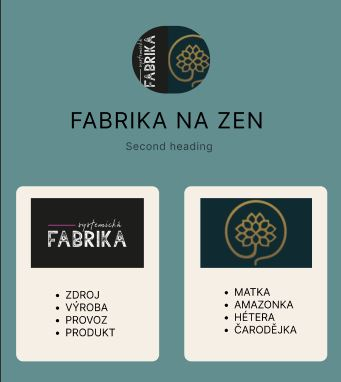
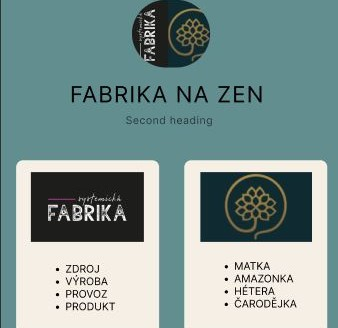
Changed the cards on index page, removed grid

diff --git a/index.html b/index.html
@@ -37,164 +37,72 @@
       <a class="nav-link" href="education.html">Education</a>
       <a class="nav-link" href="index.html">Home</a>
     </div>
-
-    <div class="row mt-5">
-      <div class="col-ml-6">
-        <div class="row">
-          <div class="col-md-12"><br /></div>
+    <div class="cards">
+      <div class="card md" style="width: 18rem">
+        <img
+          class="card-img-top"
+          src="visuals/sweden-project.JPG"
+          alt="Card image cap"
+        />
+        <div class="card-body">
+          <h5 class="card-title">Sweden project</h5>
+          <p class="card-text">
+            Some quick example text to build on the card title and make up the
+            bulk of the card's content.
+          </p>
+          <a href="#" class="btn btn-primary">Go somewhere</a>
         </div>
-        <div class="row">
-          <div class="col-md-6">
-            <div class="card mb-3">
-              <div class="row no-gutters">
-                <div class="col-md-6">
-                  <a
-                    href="https://celebrated-gnome-116124.netlify.app/"
-                    target="_blank"
-                  >
-                    <img
-                      src="visuals/resume.JPG"
-                      class="card-img mt-4 img-fluid"
-                      alt="..."
-                  /></a>
-                </div>
-                <div class="col-md-6">
-                  <div class="card-body">
-                    <h5 class="card-title">
-                      <a
-                        href="https://celebrated-gnome-116124.netlify.app/"
-                        target="_blank"
-                        >Resume</a
-                      >
-                    </h5>
+      </div>
 
-                    <p class="card-text">
-                      <small class="text-muted"
-                        >A resume as a PDF is boring. So I made mine as a
-                        landing page instead. The source code is open and the
-                        design is made by me.</small
-                      >
-                    </p>
-                  </div>
-                </div>
-              </div>
-            </div>
-          </div>
-
-          <div class="col-md-6">
-            <div class="card mb-3">
-              <div class="row no-gutters">
-                <div class="col-md-6">
-                  <div class="card-body">
-                    <h5 class="card-title">
-                      <a
-                        href="https://zesty-rugelach-208791.netlify.app/"
-                        target="_blank"
-                        >Weather App</a
-                      >
-                    </h5>
-
-                    <p class="card-text">
-                      <small class="text-muted"
-                        >My first real coding project was to build a weather
-                        app. Using my newly coding skills using HTML, CSS and
-                        Javascript.</small
-                      >
-                    </p>
-                  </div>
-                </div>
-                <div class="col-md-6">
-                  <a
-                    href="https://zesty-rugelach-208791.netlify.app/"
-                    target="_blank"
-                    ><img
-                      src="visuals/weather.jpg"
-                      class="card-img img-fluid"
-                      alt="..."
-                  /></a>
-                </div>
-              </div>
-            </div>
-          </div>
-        </div>
-
-        <div class="row">
-          <div class="col-md-6">
-            <div class="card mb-3">
-              <div class="row no-gutters">
-                <div class="col-md-6">
-                  <a
-                    href="https://celebrated-gnome-116124.netlify.app/"
-                    target="_blank"
-                  >
-                    <img
-                      src="visuals/zen-project.JPG"
-                      class="card-img img-fluid"
-                      alt="..."
-                  /></a>
-                </div>
-                <div class="col-md-6">
-                  <div class="card-body">
-                    <h5 class="card-title">
-                      <a
-                        href="https://celebrated-gnome-116124.netlify.app/"
-                        target="_blank"
-                        >Zen-Fabrika</a
-                      >
-                    </h5>
-
-                    <p class="card-text">
-                      <small class="text-muted"
-                        >This is my first project for a client who wanted a
-                        landing page for their two businesses.</small
-                      >
-                    </p>
-                  </div>
-                </div>
-              </div>
-            </div>
-          </div>
-          <div class="col-md-6">
-            <div class="card mb-3">
-              <div class="row no-gutters">
-                <div class="col-md-6">
-                  <div class="card-body">
-                    <h5 class="card-title">
-                      <a
-                        href="https://playful-monstera-ced22b.netlify.app/"
-                        target="_blank"
-                        >Sweden</a
-                      >
-                    </h5>
-
-                    <p class="card-text">
-                      <small class="text-muted"
-                        >A project from my coding workshops where we were
-                        suppost to create a website after getting the design in
-                        Figma.</small
-                      >
-                    </p>
-                  </div>
-                </div>
-                <div class="col-md-6">
-                  <a
-                    href="https://playful-monstera-ced22b.netlify.app/"
-                    target="_blank"
-                  >
-                    <img
-                      src="visuals/sweden-project.JPG"
-                      class="card-img img-fluid"
-                      alt="..."
-                      width="300px"
-                  /></a>
-                </div>
-              </div>
-            </div>
-          </div>
+      <div class="card md" style="width: 18rem">
+        <img
+          class="card-img-top"
+          src="visuals/weather.jpg"
+          alt="Card image cap"
+        />
+        <div class="card-body">
+          <h5 class="card-title">Weather App</h5>
+          <p class="card-text">
+            Some quick example text to build on the card title and make up the
+            bulk of the card's content.
+          </p>
+          <a href="#" class="btn btn-primary">Go somewhere</a>
         </div>
       </div>
     </div>
+    <div class="cards">
+      <div class="card" style="width: 18rem">
+        <img
+          class="card-img-top"
+          src="visuals/resume.JPG"
+          alt="Card image cap"
+        />
+        <div class="card-body">
+          <h5 class="card-title">Resume</h5>
+          <p class="card-text">
+            Some quick example text to build on the card title and make up the
+            bulk of the card's content.
+          </p>
+          <a href="#" class="btn btn-primary">Go somewhere</a>
+        </div>
+      </div>
 
+      <div class="card" style="width: 18rem">
+        <img
+          class="card-img-top"
+          src="visuals/zen-project.JPG"
+          alt="Card image cap"
+        />
+        <div class="card-body">
+          <h5 class="card-title">Weather App</h5>
+          <p class="card-text">
+            Some quick example text to build on the card title and make up the
+            bulk of the card's content.
+          </p>
+          <a href="#" class="btn btn-primary">Go somewhere</a>
+        </div>
+      </div>
+    </div>
     <script
       src="https://cdn.jsdelivr.net/npm/bootstrap@5.2.3/dist/js/bootstrap.bundle.min.js"
       integrity="sha384-kenU1KFdBIe4zVF0s0G1M5b4hcpxyD9F7jL+jjXkk+Q2h455rYXK/7HAuoJl+0I4"

diff --git a/src/style.css b/src/style.css
@@ -55,13 +55,10 @@ a {
   background-color: transparent;
   border: none;
 }
-.card-img {
-  margin: 10px;
+.cards {
+  display: flex;
+  justify-content: space-evenly;
 }
-.card-title a {
-  text-decoration: none;
-}
-
 /* Education */
 .university,
 .courses {
@@ -72,7 +69,7 @@ a {
   padding: 20px;
   line-height: 1, 5;
 }
-.cards {
+.cards-education {
   color: var(--main-text-color);
   display: flex;
 }

diff --git a/education.html b/education.html
@@ -39,7 +39,7 @@
     </div>
     <h4 class="text-center">Education</h4>
     <div class="container">
-      <div class="cards">
+      <div class="cards-education">
         <div class="university">
           <h4>University</h4>
           <img src="visuals/lund.png" alt="" width="30px" />
